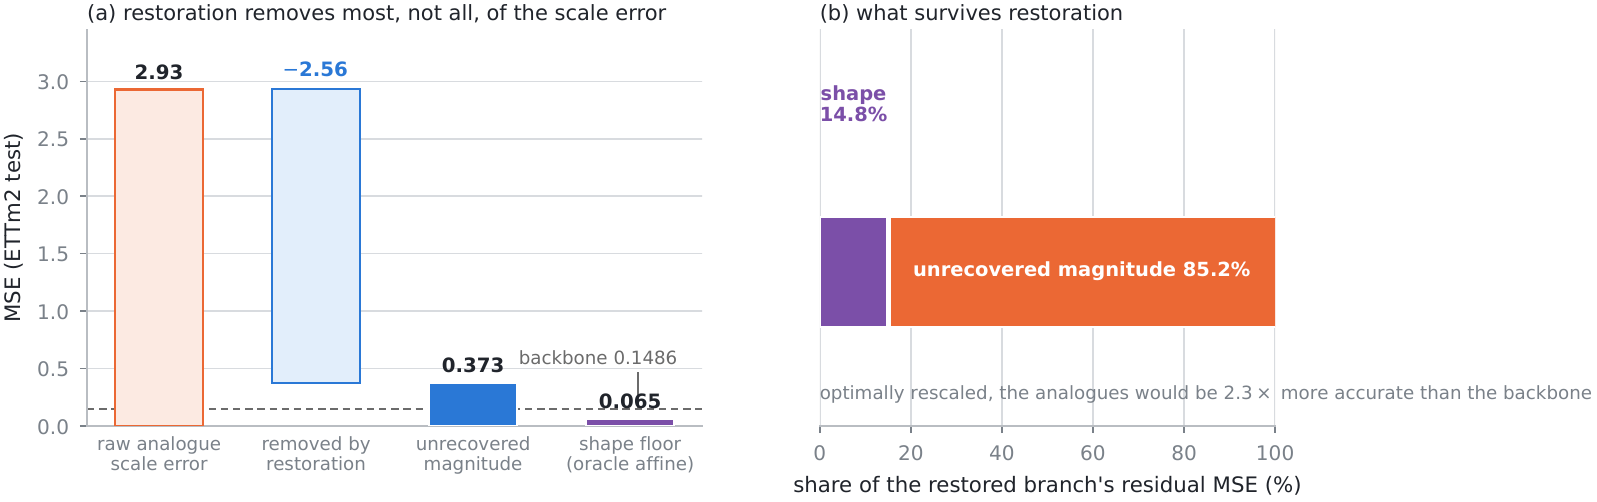
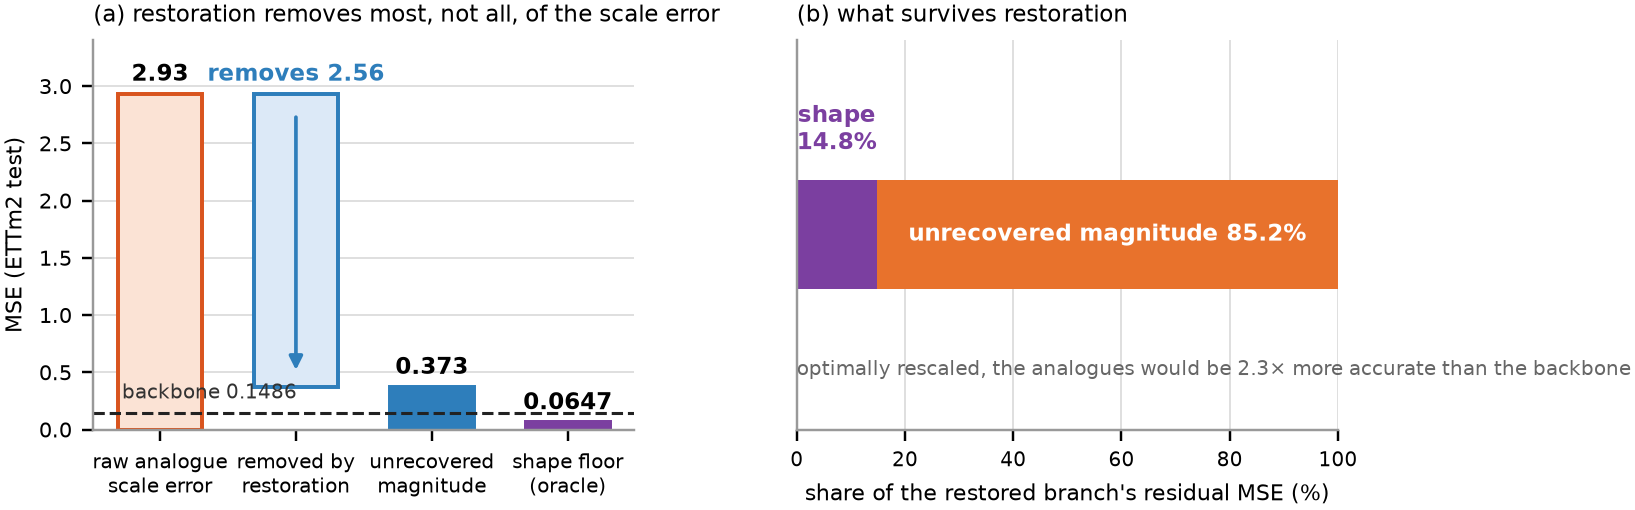
fix(figures): drop the negative label from the MSE axis, add a generator
The decomposition figure annotated the restoration step with "-2.56" on an axis
labelled "MSE (ETTm2 test)". The geometry was a correct waterfall decrement and
closes exactly (2.9343 - 2.5613 = 0.3730), but MSE is non-negative by
definition, so a negative label on that axis reads as an error rather than as a
direction. The bar now carries a downward arrow and "removes 2.56". No value
changed.

The figure also had no generator anywhere in the tree. It does now:
make_decomposition_figure.py reads every quantity from
docs/error-decomposition-ettm2-test.json, hardcodes nothing, and raises if the
waterfall fails to close to within 1e-6 rather than rendering a plausible but
wrong picture. The run record it consumes is tracked alongside it, so the
figure is reproducible from a clean clone.

The README previously claimed make_phase11a_figures.py regenerates every figure
shown. It does not, and the reproduction section now says exactly which figures
are build outputs of this tree and which are published artifacts.

diff --git a/scripts/make_decomposition_figure.py b/scripts/make_decomposition_figure.py
@@ -1,0 +1,267 @@
+"""Render the oracle affine decomposition figure from the recorded run.
+
+Every value is read from ``docs/error-decomposition-ettm2-test.json``.
+Nothing is hardcoded, so the figure cannot drift from the run that produced it.
+
+Panel (a) is a waterfall over the retrieval branch's MSE on ETTm2 test:
+
+    raw analogue scale error  =  raw retrieval MSE - shape floor
+    removed by restoration    =  the decrement the restoration step achieves
+    unrecovered magnitude     =  what the decrement leaves behind
+    shape floor               =  the oracle affine correction, a lower bound
+
+Panel (b) splits the restored branch's residual into its shape and magnitude
+shares.
+
+Note on the decrement label. The y axis is an MSE, which is non-negative by
+definition, so the middle bar is annotated with a downward arrow and a positive
+magnitude rather than a negative number. An earlier revision printed "-2.56" on
+this axis; the geometry was right but a negative tick on a non-negative
+quantity reads as an error.
+
+Usage
+-----
+    uv run python scripts/make_decomposition_figure.py \
+        --results docs/error-decomposition-ettm2-test.json \
+        --outdir figures
+"""
+
+from __future__ import annotations
+
+import argparse
+import json
+from pathlib import Path
+
+import matplotlib
+
+matplotlib.use("Agg")
+import matplotlib.pyplot as plt
+from matplotlib.patches import FancyArrowPatch
+
+ORANGE_EDGE = "#D9541E"
+ORANGE_FILL = "#FBE3D5"
+BLUE_EDGE = "#2E7EBB"
+BLUE_FILL = "#DCE9F7"
+BLUE_SOLID = "#2E7EBB"
+PURPLE = "#7B3FA0"
+GREY = "#666666"
+
+RC = {
+    "font.size": 7,
+    "axes.titlesize": 7.6,
+    "axes.labelsize": 7.2,
+    "xtick.labelsize": 6.6,
+    "ytick.labelsize": 6.8,
+    "axes.spines.top": False,
+    "axes.spines.right": False,
+    "axes.edgecolor": "#999999",
+    "savefig.bbox": "tight",
+    "savefig.pad_inches": 0.02,
+}
+
+
+def load_decomposition(path: Path) -> dict[str, float]:
+    """Pull the six quantities the figure needs out of the run record.
+
+    Fails loudly if a key is absent: a silently defaulted value here would
+    produce a plausible-looking but wrong figure, which is worse than a crash.
+    """
+    payload = json.loads(path.read_text())
+    mse = payload["decomposition"]["mse"]
+    attribution = payload["decomposition"]["attribution"]
+
+    raw = float(mse["raw_retrieval"])
+    shape_floor = float(mse["shape_floor_oracle_rescaled"])
+    backbone = float(mse["backbone"])
+    removed = float(attribution["scale_error_removed_by_restoration"])
+    remaining = float(attribution["scale_error_remaining"])
+    shape_fraction = float(attribution["shape_fraction_of_restored_error"])
+
+    scale_error = raw - shape_floor
+    closure = abs(scale_error - (removed + remaining))
+    if closure > 1e-6:
+        raise ValueError(
+            f"waterfall does not close: {scale_error:.8f} != "
+            f"{removed:.8f} + {remaining:.8f} (gap {closure:.2e})"
+        )
+
+    return {
+        "scale_error": scale_error,
+        "removed": removed,
+        "remaining": remaining,
+        "shape_floor": shape_floor,
+        "backbone": backbone,
+        "shape_fraction": shape_fraction,
+        "n_windows": int(payload["decomposition"]["n_windows"]),
+    }
+
+
+def _waterfall(ax: plt.Axes, d: dict[str, float]) -> None:
+    ax.set_title("(a) restoration removes most, not all, of the scale error", loc="left")
+
+    labels = [
+        "raw analogue\nscale error",
+        "removed by\nrestoration",
+        "unrecovered\nmagnitude",
+        "shape floor\n(oracle)",
+    ]
+    bottoms = [0.0, d["remaining"], 0.0, 0.0]
+    heights = [d["scale_error"], d["removed"], d["remaining"], d["shape_floor"]]
+    faces = [ORANGE_FILL, BLUE_FILL, BLUE_SOLID, PURPLE]
+    edges = [ORANGE_EDGE, BLUE_EDGE, BLUE_SOLID, PURPLE]
+
+    ax.bar(
+        range(4), heights, bottom=bottoms, width=0.62, color=faces, edgecolor=edges, linewidth=1.3
+    )
+
+    top = d["scale_error"]
+    ax.set_ylim(0, top * 1.16)
+    ax.set_xticks(range(4))
+    ax.set_xticklabels(labels)
+    ax.set_ylabel("MSE (ETTm2 test)")
+    ax.grid(axis="y", color="#DDDDDD", linewidth=0.6)
+    ax.set_axisbelow(True)
+
+    # Bar 1, 3, 4: plain magnitude above the bar.
+    for i in (0, 2, 3):
+        y = bottoms[i] + heights[i]
+        ax.text(
+            i,
+            y + top * 0.022,
+            f"{heights[i]:.3g}".rstrip("0").rstrip(".") if i != 0 else f"{heights[i]:.2f}",
+            ha="center",
+            va="bottom",
+            fontweight="bold",
+            fontsize=7.6,
+        )
+
+    # Bar 2 is a decrement. The axis is an MSE and cannot go negative, so the
+    # direction is carried by an arrow and the word "removes", not by a minus.
+    mid_top = bottoms[1] + heights[1]
+    ax.text(
+        1,
+        mid_top + top * 0.022,
+        f"removes {d['removed']:.2f}",
+        ha="center",
+        va="bottom",
+        fontweight="bold",
+        fontsize=7.6,
+        color=BLUE_EDGE,
+    )
+    ax.add_patch(
+        FancyArrowPatch(
+            (1, mid_top - top * 0.07),
+            (1, bottoms[1] + top * 0.05),
+            arrowstyle="-|>",
+            mutation_scale=9,
+            linewidth=1.2,
+            color=BLUE_EDGE,
+            shrinkA=0,
+            shrinkB=0,
+        )
+    )
+
+    ax.axhline(d["backbone"], linestyle="--", linewidth=1.0, color="#222222")
+    # Sits just above the dashed line over the palest bar, the only region of
+    # the panel with no ink of its own.
+    ax.text(
+        -0.28,
+        d["backbone"] + top * 0.028,
+        f"backbone {d['backbone']:.4f}",
+        ha="left",
+        va="bottom",
+        fontsize=6.4,
+        color="#333333",
+    )
+
+
+def _shares(ax: plt.Axes, d: dict[str, float]) -> None:
+    ax.set_title("(b) what survives restoration", loc="left")
+
+    shape_pct = d["shape_fraction"] * 100.0
+    mag_pct = 100.0 - shape_pct
+
+    ax.barh([0], [shape_pct], height=0.42, color=PURPLE)
+    ax.barh([0], [mag_pct], left=[shape_pct], height=0.42, color="#E8722C")
+
+    ax.text(
+        shape_pct / 2,
+        0.30,
+        f"shape\n{shape_pct:.1f}%",
+        ha="center",
+        va="bottom",
+        color=PURPLE,
+        fontweight="bold",
+        fontsize=7.4,
+    )
+    ax.text(
+        shape_pct + mag_pct / 2,
+        0,
+        f"unrecovered magnitude {mag_pct:.1f}%",
+        ha="center",
+        va="center",
+        color="white",
+        fontweight="bold",
+        fontsize=7.4,
+    )
+
+    ratio = d["backbone"] / d["shape_floor"]
+    ax.text(
+        0,
+        -0.52,
+        f"optimally rescaled, the analogues would be {ratio:.1f}\N{MULTIPLICATION SIGN} "
+        "more accurate than the backbone",
+        ha="left",
+        va="center",
+        fontsize=6.6,
+        color=GREY,
+    )
+
+    ax.set_xlim(0, 100)
+    ax.set_ylim(-0.75, 0.75)
+    ax.set_yticks([])
+    ax.set_xlabel("share of the restored branch's residual MSE (%)")
+    ax.grid(axis="x", color="#DDDDDD", linewidth=0.6)
+    ax.set_axisbelow(True)
+
+
+def main() -> None:
+    parser = argparse.ArgumentParser(description=__doc__)
+    parser.add_argument(
+        "--results",
+        type=Path,
+        default=Path("docs/error-decomposition-ettm2-test.json"),
+    )
+    parser.add_argument("--outdir", type=Path, default=Path("figures"))
+    parser.add_argument("--stem", default="error-decomposition")
+    args = parser.parse_args()
+
+    if not args.results.exists():
+        raise FileNotFoundError(
+            f"{args.results} not found. Regenerate it with "
+            "`uv run python scripts/error_decomposition_run.py` first."
+        )
+
+    d = load_decomposition(args.results)
+    args.outdir.mkdir(parents=True, exist_ok=True)
+
+    with plt.rc_context(RC):
+        fig, axes = plt.subplots(1, 2, figsize=(7.3, 2.3), gridspec_kw={"wspace": 0.30})
+        _waterfall(axes[0], d)
+        _shares(axes[1], d)
+        for ext, dpi in (("pdf", None), ("png", 220)):
+            fig.savefig(args.outdir / f"{args.stem}.{ext}", dpi=dpi)
+        plt.close(fig)
+
+    print(f"n_windows            {d['n_windows']:,}")
+    print(f"raw scale error      {d['scale_error']:.4f}")
+    print(f"removed              {d['removed']:.4f}")
+    print(f"remaining            {d['remaining']:.4f}")
+    print(f"shape floor          {d['shape_floor']:.4f}")
+    print(f"backbone             {d['backbone']:.4f}")
+    print(f"shape share          {d['shape_fraction'] * 100:.1f}%")
+    print(f"wrote                {args.outdir / args.stem}.{{pdf,png}}")
+
+
+if __name__ == "__main__":
+    main()

diff --git a/README.md b/README.md
@@ -459,17 +459,27 @@ Each script regenerates a specific artifact. All write machine-readable JSON.
 | `scripts/gate_transfer_run.py` | cross-dataset gate transfer → `docs/gate-transfer-report.md` |
 | `scripts/scalerag_native_ettm2.py` | ETTm2 adapter → `docs/scalerag-native-dev-report.md` |
 | `scripts/verify_gpu_retrieval.py` | GPU ≡ CPU retrieval, bit-for-bit |
+| `scripts/make_decomposition_figure.py` | `figures/error-decomposition.png`, straight from the run record |
 | `scripts/make_phase11a_figures.py` | the Phase-11A figure set |
 
 **On the figures.** Every *number* in every figure above is regenerated by the
-scripts in this table, which write the JSON in `docs/`. The manuscript figure
-files themselves are not: the four schematics are drawio diagrams whose sources
-are not in this repository, and the plotted figures were rendered by a separate
-manuscript-side script. `scripts/make_phase11a_figures.py` produces an earlier,
-overlapping set (`fig1_motivation`, `fig2_ablation`, `fig3_qualitative`,
-`fig4_regimes`, `fig5_pareto`, `fig6_sensitivity`) rather than these exact
-files. Treat the PNGs in `figures/` as published artifacts whose underlying
-values are reproducible, not as build outputs of this tree.
+scripts in this table, which write the JSON in `docs/`. The figure *files* are
+a mix:
+
+- `figures/error-decomposition.png` is fully reproducible here — run
+  `uv run python scripts/make_decomposition_figure.py`. It reads
+  `docs/error-decomposition-ettm2-test.json`, hardcodes nothing, and refuses to
+  render if the waterfall does not close to within `1e-6`.
+- The four schematics (`pipeline`, `stage1-normalization`, `stage3-restoration`,
+  `stage4-gated-fusion`, `gap-map`) are drawio diagrams whose sources are not in
+  this repository.
+- The remaining plotted figures were rendered by a manuscript-side script.
+  `scripts/make_phase11a_figures.py` produces an earlier, overlapping set
+  (`fig1_motivation`, `fig2_ablation`, `fig3_qualitative`, `fig4_regimes`,
+  `fig5_pareto`, `fig6_sensitivity`) rather than these exact files.
+
+Treat the rest of `figures/` as published artifacts whose underlying values are
+reproducible, not as build outputs of this tree.
 
 **Curated results** live in `docs/` and are tracked. `reports/` is regenerable
 and gitignored. The tables above are machine-readable in
